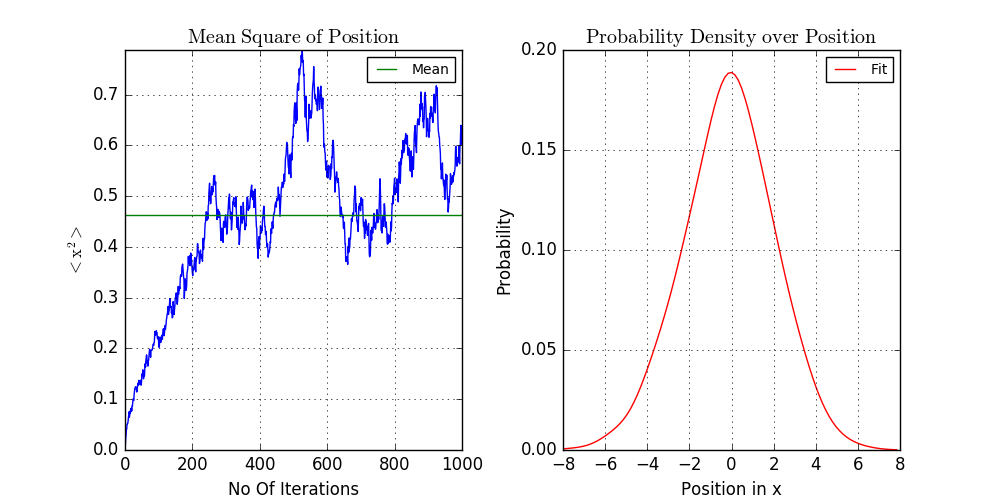
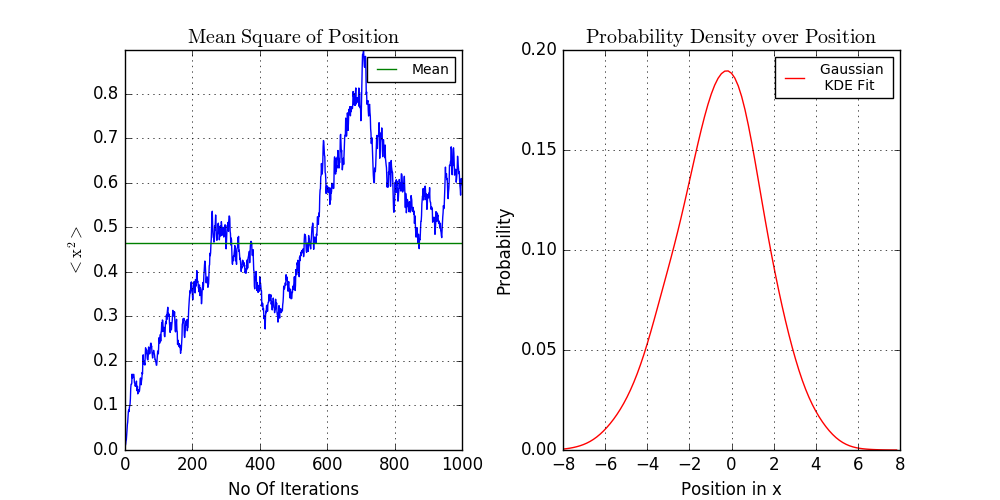
Corrections and Updates

diff --git a/PIMC.py b/PIMC.py
@@ -71,7 +71,7 @@ def mcstep(path): #One Markov Chain Monte Carlo Step - Metropolis Algorithm
 
     return x_new #New position as determined by the acceptance probability
 
-def render_plots(path, ms, x, pdf):
+def render_plots(ms, x, pdf):
 
     #Plot of MS values of position
     f = plt.figure(1,figsize=(10, 5), dpi=80)
@@ -95,7 +95,7 @@ def render_plots(path, ms, x, pdf):
     plt.ylabel('Probability')
     plt.title(r'$\mathrm{Probability\ Density\ over\ Position}$')
     plt.hold('off')
-    plt.plot(x, pdf, 'r-', label='Fit')
+    plt.plot(x, pdf, 'r-', label='Gaussian \n KDE Fit')
     plt.grid(True)
     plt.legend(prop={'size':10})
     plt.show()
@@ -133,11 +133,11 @@ def PIMC(path):
     for i in range(len(ensemble_pdf)):
         a.append([x[i]]*ensemble_pdf[i])
     y = np.array([j for i in a for j in i])
-    kde = gaussian_kde(y, bw_method=0.2 / y.std(ddof=1))
+    kde = gaussian_kde(y, bw_method=0.2 / y.std(ddof=1)) #Kernel Density Estimation to determine PDF
     kde.covariance_factor = lambda : .25
     kde._compute_covariance()
-    pdf = kde.evaluate(x)
-    render_plots(path, ms, x, pdf) #Normalized pdf of the ensemble of paths
+    pdf = kde.evaluate(x) #Normalized pdf of the ensemble of paths
+    render_plots(ms, x, pdf)
     print("Dumping all data into a CSV file...")
     dump_data(pdf, ms, energy)
     print("Finished! - All tasks successfully completed!")

diff --git a/main.py b/main.py
@@ -9,7 +9,7 @@ mu = 1 #Oscillator Frequency?
 f = 4.0 #Arbitrary Constant? for Anharmonic Oscillator
 char = 'c' #Choose Hot = 'h' or Cold = 'c' Start
 thermalize = False #Set True to run Thermalization to pass burn-in phase
-lam = 0.0 #Quartic Coupling Constant - lam = 0 -> Harmonic Oscillator; lam > 0 -> Anharmonic Oscillator
+lam = 1.0 #Quartic Coupling Constant - lam = 0 -> Harmonic Oscillator; lam > 0 -> Anharmonic Oscillator
 n_steps = 1000  #Number of Monte Carlo steps
 x_max = 8.0 #Max value corresponding to the last bin
 n_bins = 100 #Number of bins to draw the probability density histogram over
